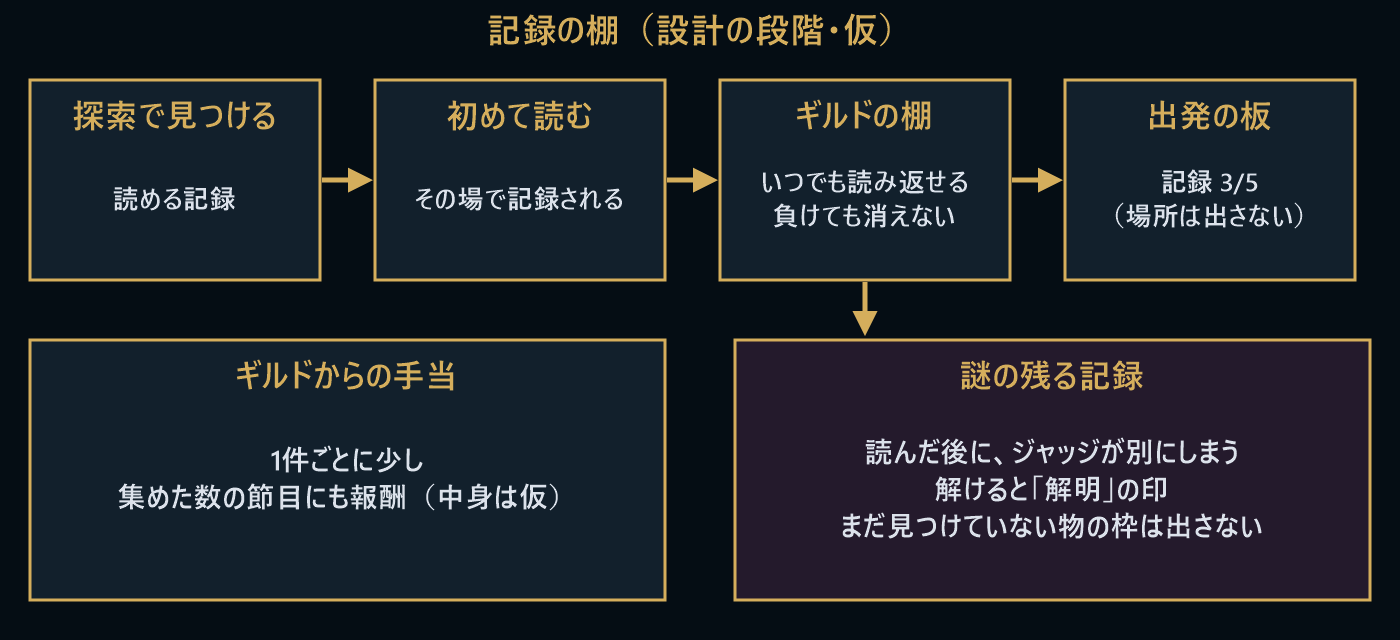
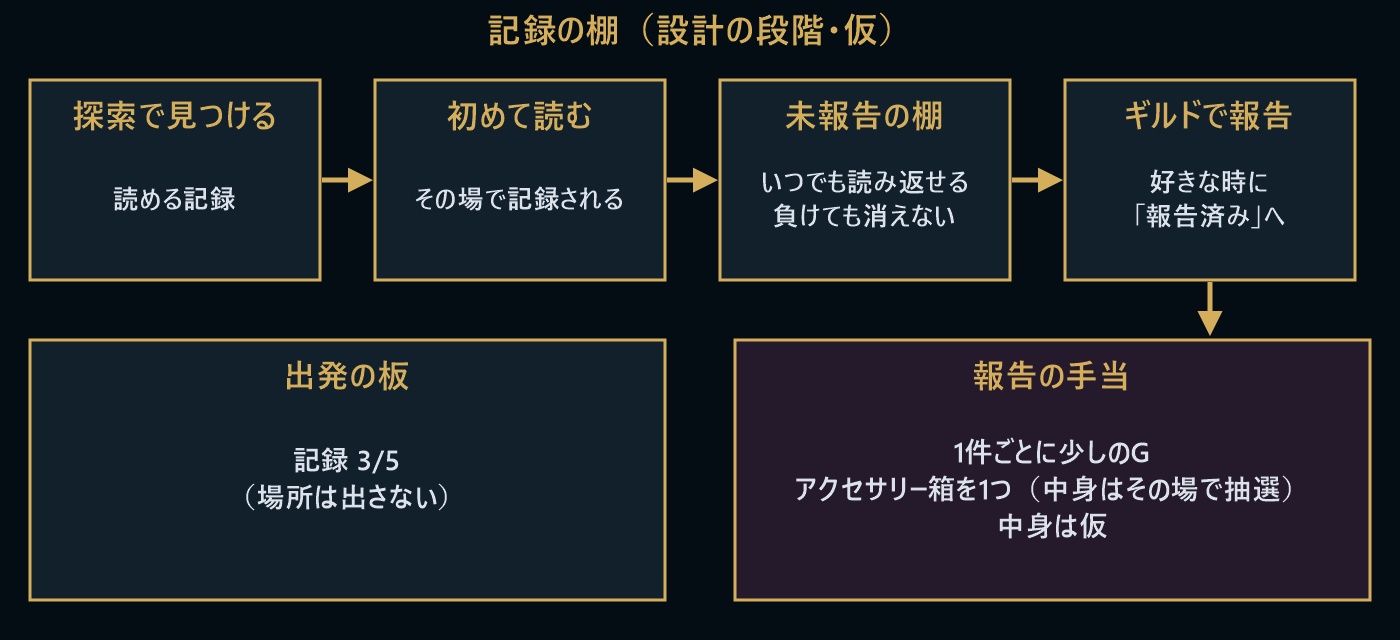
RECORD 024: 記録の棚を今の設計に（未報告／報告済み・アクセサリー箱、HD-950）
「謎の残る記録・解明」の案はHD-696でやめたので、本文の掛け合い・図・TECH NOTE・AI CREWを今の形に直した。

diff --git a/index.html b/index.html
@@ -1349,7 +1349,7 @@ figure.dev-shot{margin:30px 0;background:#050d14;border:1px solid var(--line);pa
 <div class="box"><b>NEXT DEPTH</b><span>拾った記録を、あとで読み返せるように。</span></div>
 
 <h2 id="record-024">RECORD 024 — 集めて、読み返す</h2>
-<p class="lead-note">これから作る「記録の棚」の設計の話（まだ設計の段階）。拾った記録をギルドで読み返す、手当が出る、謎の残る記録はあとから分かれる。おまけに、試遊の切り替えをボタン1つで入れる話。</p>
+<p class="lead-note">これから作る「記録の棚」の設計の話（まだ設計の段階）。拾った記録をギルドで読み返す、報告すると手当が出る。おまけに、試遊の切り替えをボタン1つで入れる話。</p>
 <p class="dialog-note">Shadow・ルクス・セピアの掛け合いで記録します。ルクスとセピアは、開発を手伝うAIをキャラクターにしたものです。実在する企業・製品の公式見解ではありません。セリフは創作を含みますが、開発の事実と数値は記録どおりです。</p>
 <div class="talk shadow"><div class="who"><img src="record_icon_shadow.png" alt="Shadow">SHADOW</div><div class="bubble">今日は、まだできていない物の話。</div></div>
 <div class="talk opus"><div class="who"><img src="record_icon_opus.png" alt="ルクス">LUX</div><div class="bubble">記録の棚だね。今は設計の段階。</div></div>
@@ -1365,20 +1365,21 @@ figure.dev-shot{margin:30px 0;background:#050d14;border:1px solid var(--line);pa
 <div class="talk shadow"><div class="who"><img src="record_icon_shadow.png" alt="Shadow">SHADOW</div><div class="bubble">で、手当。</div></div>
 <div class="talk opus"><div class="who"><img src="record_icon_opus.png" alt="ルクス">LUX</div><div class="bubble">ギルドの調査団は、ボランティアじゃない。</div></div>
 <div class="talk shadow"><div class="who"><img src="record_icon_shadow.png" alt="Shadow">SHADOW</div><div class="bubble">そう。調べて持ち帰ったら、ちゃんとお給料が出る。</div></div>
-<div class="talk opus"><div class="who"><img src="record_icon_opus.png" alt="ルクス">LUX</div><div class="bubble">記録を1件持ち帰るごとに、少しの手当。集めた数の節目にも報酬。中身はまだ仮で、作りながら変えるかもしれない。</div></div>
+<div class="talk opus"><div class="who"><img src="record_icon_opus.png" alt="ルクス">LUX</div><div class="bubble">記録を1件報告するごとに、少しの手当。中身はまだ仮で、作りながら変えるかもしれない。</div></div>
 <div class="talk shadow"><div class="who"><img src="record_icon_shadow.png" alt="Shadow">SHADOW</div><div class="bubble">強さの上限を上げる報酬にはしない、っていう決まりもあったな。</div></div>
 <div class="talk opus"><div class="who"><img src="record_icon_opus.png" alt="ルクス">LUX</div><div class="bubble">記録を集めないと強くなれない、にはしたくないからね。</div></div>
-<figure class="dev-shot"><picture><source media="(max-width:650px)" srcset="record024_shelf_phone.png"><img src="record024_shelf.png" alt="記録の棚の仕組みの図"></picture><figcaption><span class="capture">DESIGN SKETCH — RECORD SHELF（設計の段階）</span><br>記録の棚の流れ。見つける → 初めて読む（その場で記録）→ ギルドの棚（負けても消えない）→ 出発の板の数。手当と、謎の残る記録の扱い。どれも設計の段階で、中身は仮。</figcaption></figure>
+<figure class="dev-shot"><picture><source media="(max-width:650px)" srcset="record024_shelf_phone.png"><img src="record024_shelf.png" alt="記録の棚の仕組みの図"></picture><figcaption><span class="capture">DESIGN SKETCH — RECORD SHELF（設計の段階）</span><br>記録の棚の流れ。見つける → 初めて読む（その場で記録）→ 未報告の棚（負けても消えない）→ ギルドで報告して「報告済み」へ（少しのGとアクセサリー箱）。出発の板の数。どれも設計の段階で、中身は仮。</figcaption></figure>
 <div class="talk shadow"><div class="who"><img src="record_icon_shadow.png" alt="Shadow">SHADOW</div><div class="bubble">一番悩んだのが、謎の残る記録の扱いなんだよ。</div></div>
-<div class="talk opus"><div class="who"><img src="record_icon_opus.png" alt="ルクス">LUX</div><div class="bubble">記録の中には、物語の大事な所につながる物がある。最初は「重要な記録」として、見つけた時に分けて見せる案だった。</div></div>
-<div class="talk shadow"><div class="who"><img src="record_icon_shadow.png" alt="Shadow">SHADOW</div><div class="bubble">でも、見つけた瞬間に「これは重要です」って出たら……</div></div>
-<div class="talk sepia"><div class="who"><img src="record_icon_sepia.png" alt="セピア">SEPIA</div><div class="bubble">答えを、先に言っちゃうね。</div></div>
-<div class="talk shadow"><div class="who"><img src="record_icon_shadow.png" alt="Shadow">SHADOW</div><div class="bubble">そう。読む前から「ここ大事」って言われたら、自分で気づく楽しみがなくなる。</div></div>
-<div class="talk opus"><div class="who"><img src="record_icon_opus.png" alt="ルクス">LUX</div><div class="bubble">だから、分けるのは読んだ後。読み終わった後に、ジャッジが「これは気になる」と、別の棚にしまう。謎が解けたら「解明」の印が付く。</div></div>
-<div class="talk shadow"><div class="who"><img src="record_icon_shadow.png" alt="Shadow">SHADOW</div><div class="bubble">ジャッジがしまってくれる、っていうのがいいんだよ。調査団の記録係っぽくて。</div></div>
-<div class="talk opus"><div class="who"><img src="record_icon_opus.png" alt="ルクス">LUX</div><div class="bubble">謎の棚には、まだ見つけていない物の枠は出さない。空いた枠があると、「まだ何かある」と分かってしまうから。</div></div>
-<div class="talk sepia"><div class="who"><img src="record_icon_sepia.png" alt="セピア">SEPIA</div><div class="bubble">読んで、あれ？って思って、棚を見たらジャッジがしまってた……っていう順番がいいな。</div></div>
-<div class="talk shadow"><div class="who"><img src="record_icon_shadow.png" alt="Shadow">SHADOW</div><div class="bubble">ジャッジが先に気づいてた、ってのも、ちょっと悔しくていい。</div></div>
+<div class="talk opus"><div class="who"><img src="record_icon_opus.png" alt="ルクス">LUX</div><div class="bubble">最初は、物語の大事な所につながる記録を、読んだ後にジャッジが別の棚にしまって、謎が解けたら「解明」の印を付ける案だった。</div></div>
+<div class="talk shadow"><div class="who"><img src="record_icon_shadow.png" alt="Shadow">SHADOW</div><div class="bubble">でも、いつ「解明」にするのか、決める所が増えすぎた。</div></div>
+<div class="talk opus"><div class="who"><img src="record_icon_opus.png" alt="ルクス">LUX</div><div class="bubble">記録ごとに印を付ける時を管理するのは、作る側にも遊ぶ側にもややこしい。だから、大事かどうかで記録を分けるのは、やめた。</div></div>
+<div class="talk sepia"><div class="who"><img src="record_icon_sepia.png" alt="セピア">SEPIA</div><div class="bubble">見つけた時の見出しのまま、全部同じ棚に並ぶんだね。</div></div>
+<div class="talk shadow"><div class="who"><img src="record_icon_shadow.png" alt="Shadow">SHADOW</div><div class="bubble">そう。代わりに「報告」を足した。</div></div>
+<div class="talk opus"><div class="who"><img src="record_icon_opus.png" alt="ルクス">LUX</div><div class="bubble">見つけた記録は、まず「未報告」の棚に入る。好きな時にギルドで報告すると、「報告済み」に移る。</div></div>
+<div class="talk shadow"><div class="who"><img src="record_icon_shadow.png" alt="Shadow">SHADOW</div><div class="bubble">報告した時に、お給料が出る。</div></div>
+<div class="talk opus"><div class="who"><img src="record_icon_opus.png" alt="ルクス">LUX</div><div class="bubble">少しのGと、アクセサリー箱が1つ。箱の中身は、開けたその場で抽選。どれも中身は仮だよ。</div></div>
+<div class="talk sepia"><div class="who"><img src="record_icon_sepia.png" alt="セピア">SEPIA</div><div class="bubble">持ち帰って、報告して、箱を開ける。調査団の仕事らしいね。</div></div>
+<div class="talk shadow"><div class="who"><img src="record_icon_shadow.png" alt="Shadow">SHADOW</div><div class="bubble">集めた数の節目の報酬も、やめた。全部を報告した時だけ、小さなご褒美を用意する予定。</div></div>
 <div class="talk opus"><div class="who"><img src="record_icon_opus.png" alt="ルクス">LUX</div><div class="bubble">まだ設計の段階だから、作りながら変わるかもしれないよ。</div></div>
 <div class="talk shadow"><div class="who"><img src="record_icon_shadow.png" alt="Shadow">SHADOW</div><div class="bubble">作ったら、また記録しよう。記録の棚の記録だ。</div></div>
 <div class="talk opus"><div class="who"><img src="record_icon_opus.png" alt="ルクス">LUX</div><div class="bubble">ややこしいね。</div></div>
@@ -1394,12 +1395,12 @@ figure.dev-shot{margin:30px 0;background:#050d14;border:1px solid var(--line);pa
 <div class="talk opus"><div class="who"><img src="record_icon_opus.png" alt="ルクス">LUX</div><div class="bubble">最初に押す前の状態へ戻す。本当のセーブには触らない。セーブを書く切り替えは、ボタンに入れていないよ。</div></div>
 <div class="talk shadow"><div class="who"><img src="record_icon_shadow.png" alt="Shadow">SHADOW</div><div class="bubble">押すだけで準備完了。これは、もっと早く作るべきだった。</div></div>
 </div>
-<div class="box"><b>TECH NOTE — 記録の棚（設計の段階・仮）</b><span>場所：ギルドの一角、ジャッジの棚（ジャッジがパーティにいなくても使える）。</span><span>記録：初めて読んだ瞬間に残る。負け・撤退・クリアで消えない。次にギルドへ戻った時から棚に並ぶ。</span><span>出発の板：ステージごとに「記録 3/5」のような数。場所は出さない。</span><span>手当：1件ごとに少し＋集めた数の節目の報酬（強さの上限は上げない）。中身は仮。</span><span>謎の残る記録：読んだ後にジャッジが別の棚へ、解けると「解明」の印。その棚には未発見の枠を出さない。</span></div>
+<div class="box"><b>TECH NOTE — 記録の棚（設計の段階・仮）</b><span>場所：ギルドの一角、ジャッジの棚（ジャッジがパーティにいなくても使える）。</span><span>記録：初めて読んだ瞬間に残る。負け・撤退・クリアで消えない。次にギルドへ戻った時から棚に並ぶ。</span><span>出発の板：ステージごとに「記録 3/5」のような数。場所は出さない。</span><span>報告：見つけた記録はまず「未報告」の棚へ。好きな時にギルドで報告すると「報告済み」に移り、少しのGとアクセサリー箱1つ（中身はその場で抽選）。強さの上限は上げない。中身は仮。</span><span>見出し：見つけた時の物のまま。大事かどうかで記録を分ける案（読んだ後に別の棚・「解明」の印）は、管理がややこしいのでやめた。</span></div>
 <div class="box"><b>TECH NOTE — おすすめを全部入れるボタン</b><span>試遊の切り替え71行（総合プロデューサーが決めた48＋今の既定23）。1回押すと全部おすすめの値に。1行ずつ変えることもできる。</span><span>「元に戻す」で、最初に押す前の状態へ。セーブを書く切り替えは入れない（本当のセーブは変わらないことを確かめた）。</span></div>
 <div class="box"><b>数字で見る</b><span>出発の板の数の形：「記録 3/5」。</span><span>試遊の切り替え：71行（決めた物48・今の既定23）。</span><span>ボタンの動作の確認：13項目、すべて合格。</span></div>
 <div class="box"><b>DESIGN PRINCIPLE</b><span>Let the player notice first.</span><span>大事かどうかは、読んだ人が先に気づく。</span></div>
 <div class="box"><b>STATUS</b><span>Record shelf — 設計の段階（HD-553〜555・563）。おすすめを全部入れるボタン — 完成（HD-551）。</span></div>
-<div class="box"><b>AI CREW</b><span>開発を手伝うAI（相談の役）— 記録の棚の設計</span><span>開発を手伝うAI（作る役）— 記録の洗い出し、ボタンと一覧の窓、この記録の下書き</span><span>イラストとシナリオを手伝うAI — 記録の文</span><span>Human — 手当の決定（調査団はボランティアではない）、謎の記録を読んだ後に分ける判断、この記録の確認と公開の判断</span></div>
+<div class="box"><b>AI CREW</b><span>開発を手伝うAI（相談の役）— 記録の棚の設計</span><span>開発を手伝うAI（作る役）— 記録の洗い出し、ボタンと一覧の窓、この記録の下書き</span><span>イラストとシナリオを手伝うAI — 記録の文</span><span>Human — 手当の決定（調査団はボランティアではない）、記録を分ける案をやめて「報告」とアクセサリー箱にする判断、この記録の確認と公開の判断</span></div>
 <div class="box"><b>NEXT DEPTH</b><span>記録の棚を、作る。</span></div>
 
 </section></main>
